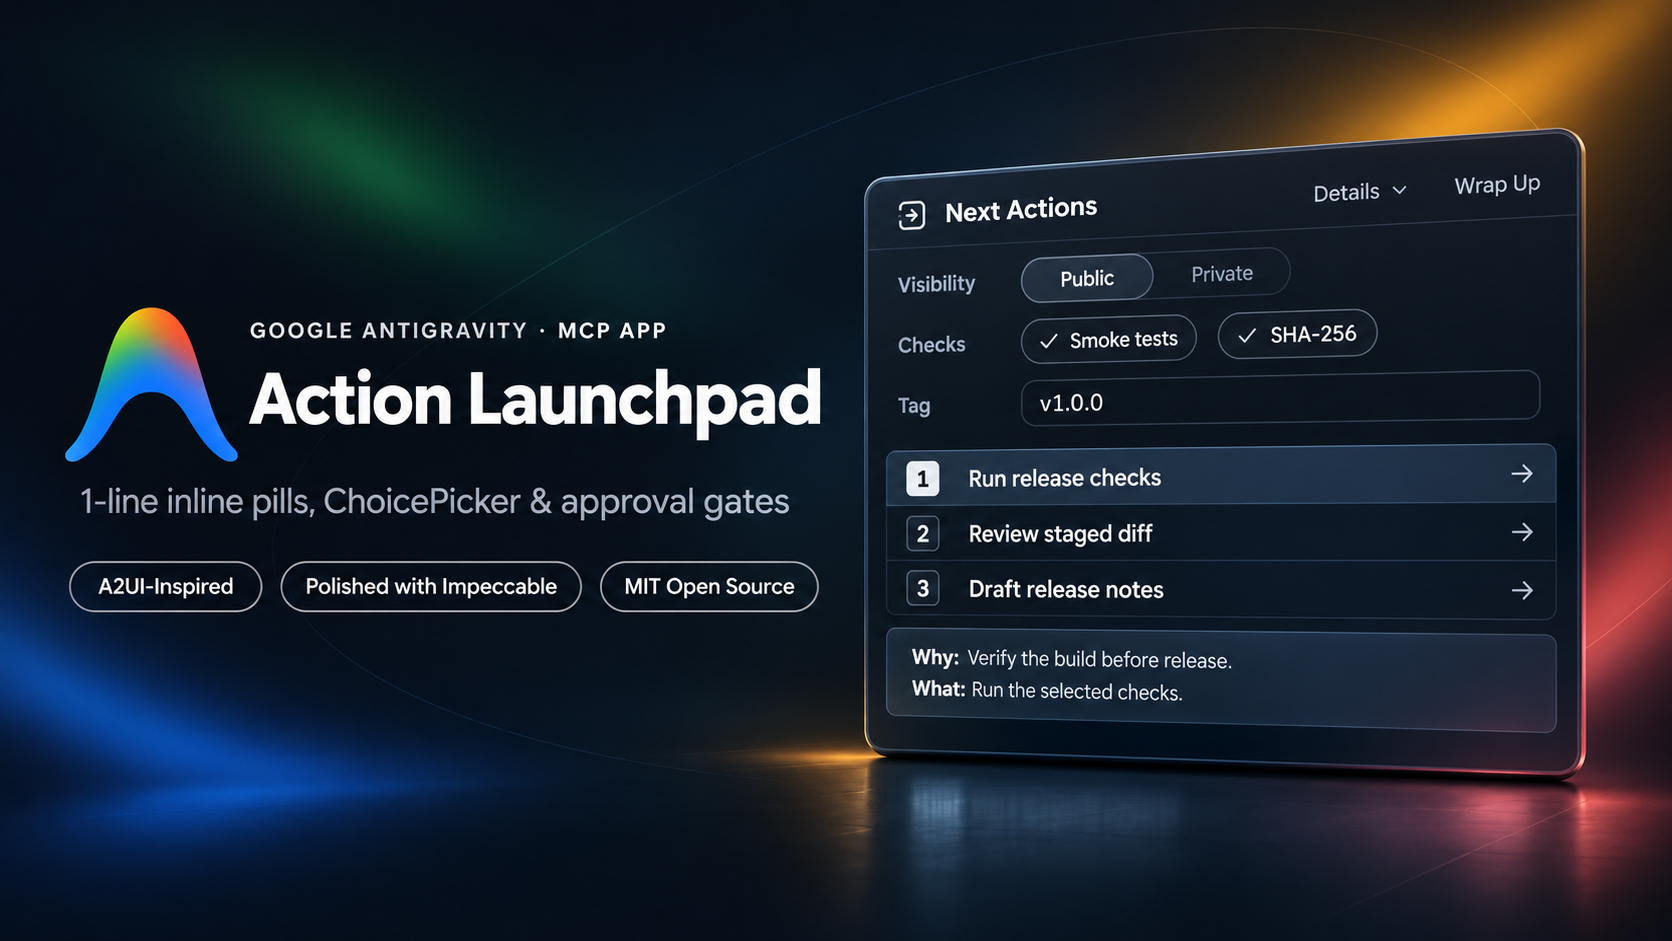
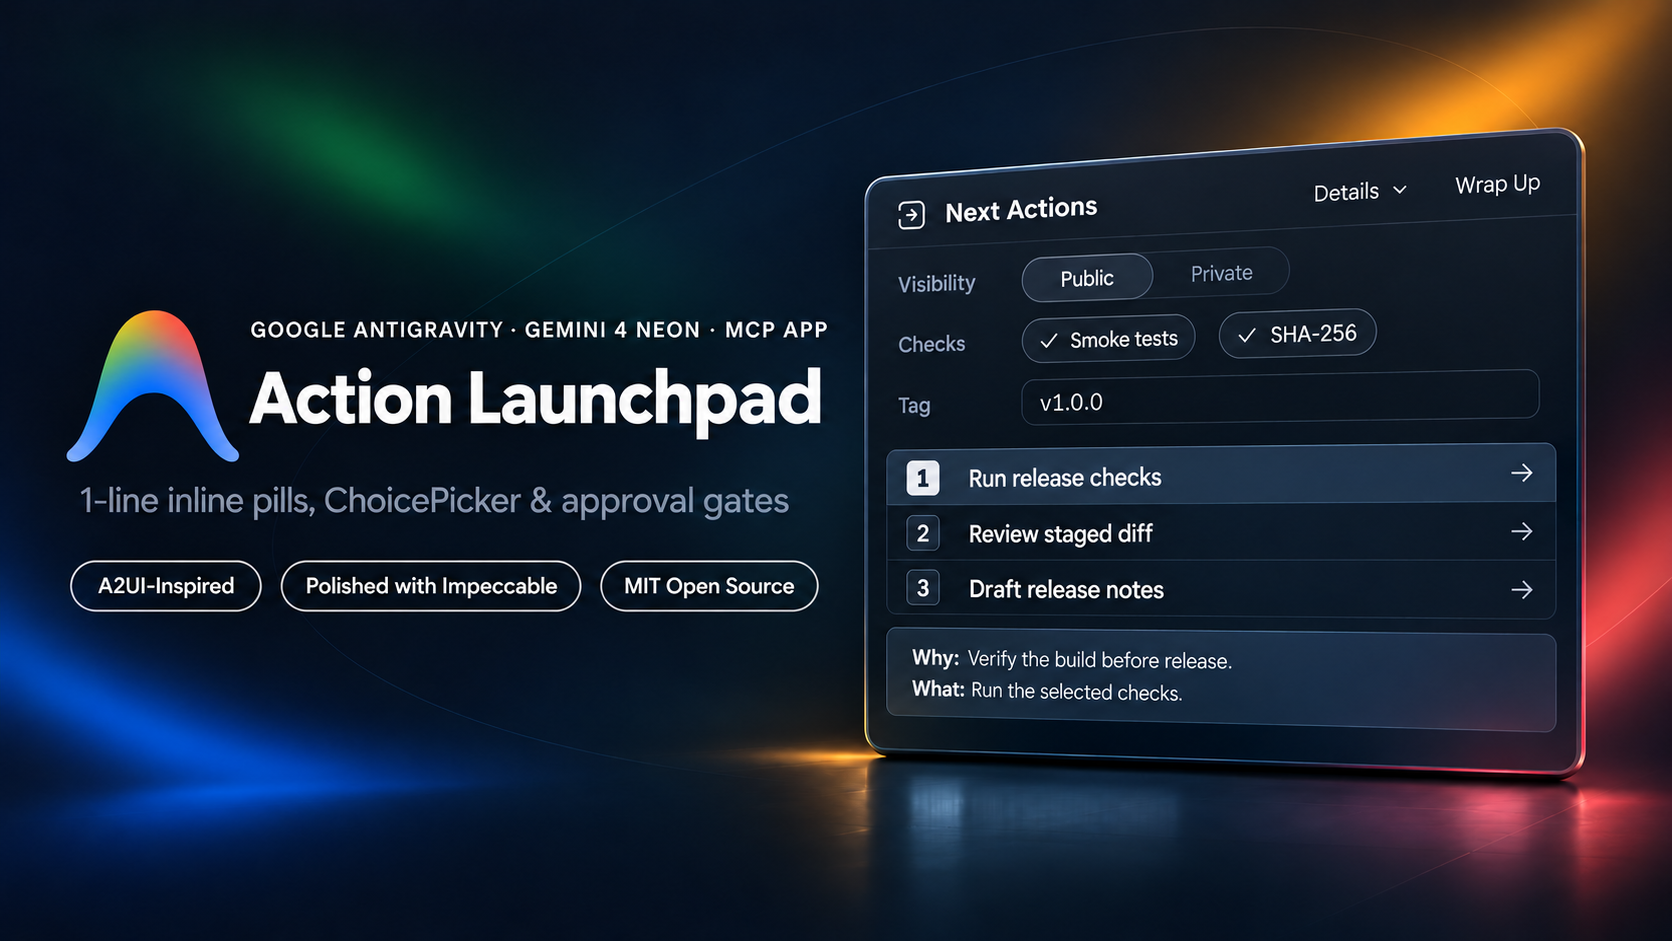
docs: refine Antigravity hero with Gemini 4 Neon and add 1-paste Slim/Full setup prompt

diff --git a/README.md b/README.md
@@ -27,7 +27,26 @@ Works cross-platform (**macOS, Linux, and Windows**) with **Node.js 20+** and sh
 
 ## Quick Install
 
-### Option A — Drop-in prebuilt plugin (recommended, no `npm install` needed)
+### Option A — 1-Paste Agent Setup (Recommended — zero manual config)
+
+Copy and paste this prompt directly into **Google Antigravity**. Your agent will install the plugin and ask just **2 quick questions** — letting you start with a **super slimmed-down** setup or unlock the **full** deck (and switch anytime):
+
+```text
+Install and configure the Antigravity Action Launchpad plugin for me from https://github.com/404kidwiz/antigravity-suggestion-helper:
+
+1. Clone https://github.com/404kidwiz/antigravity-suggestion-helper.git into ~/.gemini/config/plugins/antigravity-deck (if it already exists, pull latest main) and verify Node.js 20+ is available.
+2. Ask me just 2 quick multiple-choice questions so it fits how I work without being too much all at once:
+   - Question 1 (Mode): Start slimmed down or unlock the full deck?
+     • Slim (Recommended to start) — Super clean 1-line suggestion pills + hover Why/What inspector only (no chips, inputs, or extra controls)
+     • Full — Full Action Launchpad: 1-line pills plus ChoicePicker chips, inline short text inputs, checkboxes, and 2-step approval gates when relevant
+   - Question 2 (Frequency): How often should it appear?
+     • Balanced (Recommended) — After completed tasks & key decision points; skip quick Q&A
+     • Minimal — Only before high-stakes actions or multi-option choices
+     • Proactive — On almost every substantive turn so I rarely have to type follow-ups
+3. Tailor ~/.gemini/config/plugins/antigravity-deck/rules/AGENTS.md to my 2 choices (noting I can ask to switch between Slim and Full anytime), link me to Customizations to enable the plugin if needed, and show a quick live preview card matching my preset.
+```
+
+### Option B — Manual drop-in (no `npm install` needed)
 
 Clone or download this repository directly into your Antigravity plugins directory:
 
@@ -37,7 +56,7 @@ git clone https://github.com/404kidwiz/antigravity-suggestion-helper.git ~/.gemi
 
 Then enable **Antigravity Action Launchpad** in Antigravity's **Customizations / Plugins** page (requires Node.js 20+ on `PATH`).
 
-### Option B — Build from source
+### Option C — Build from source
 
 ```bash
 pnpm install
